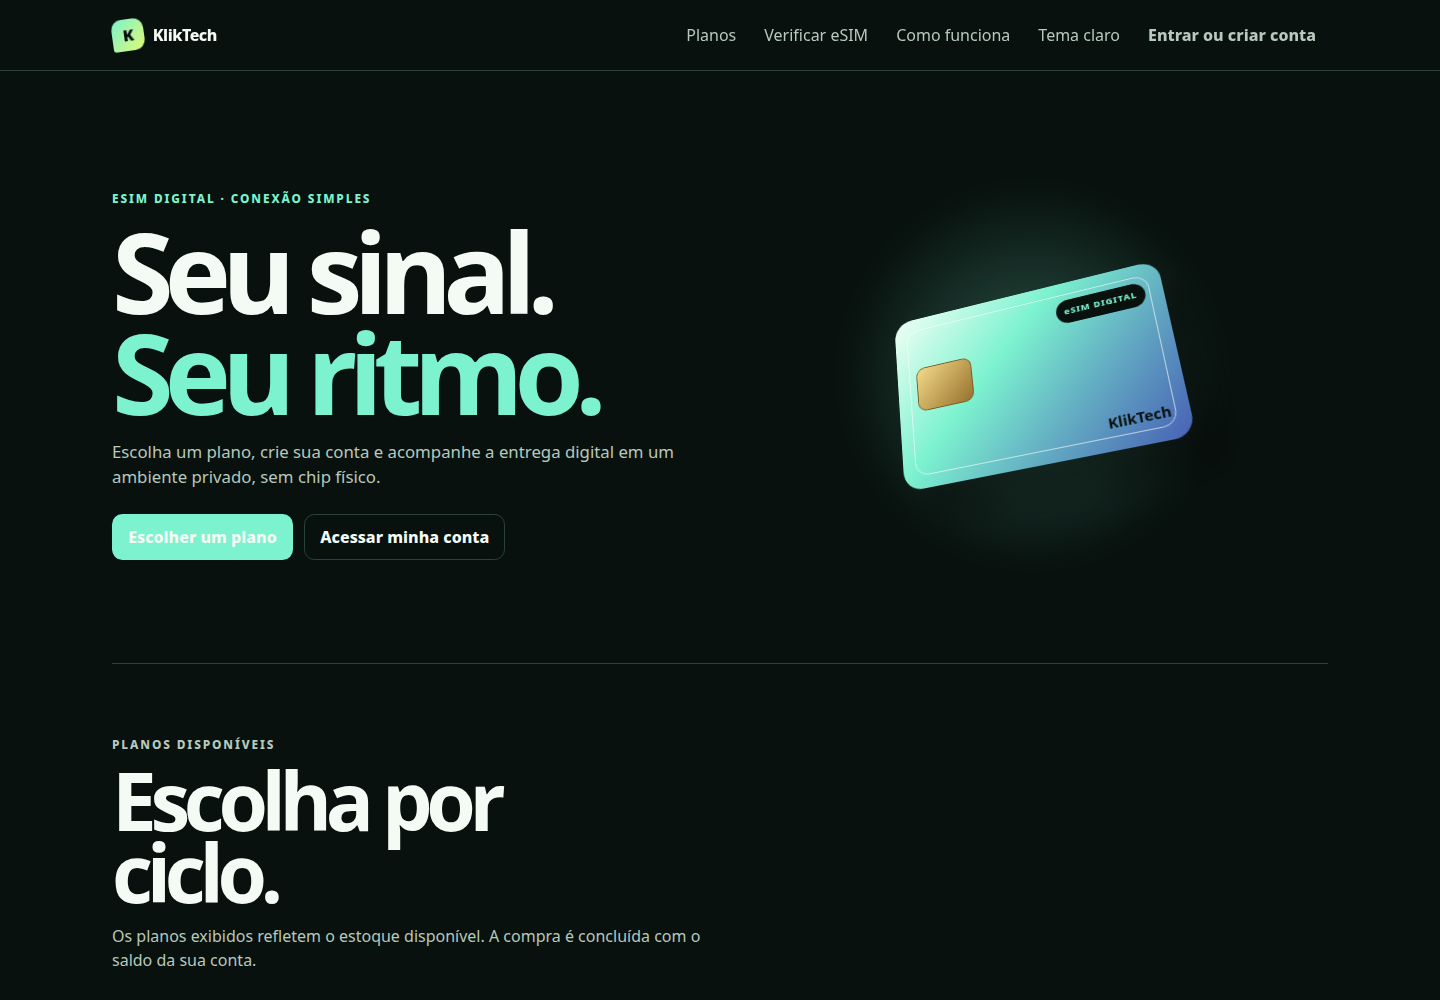
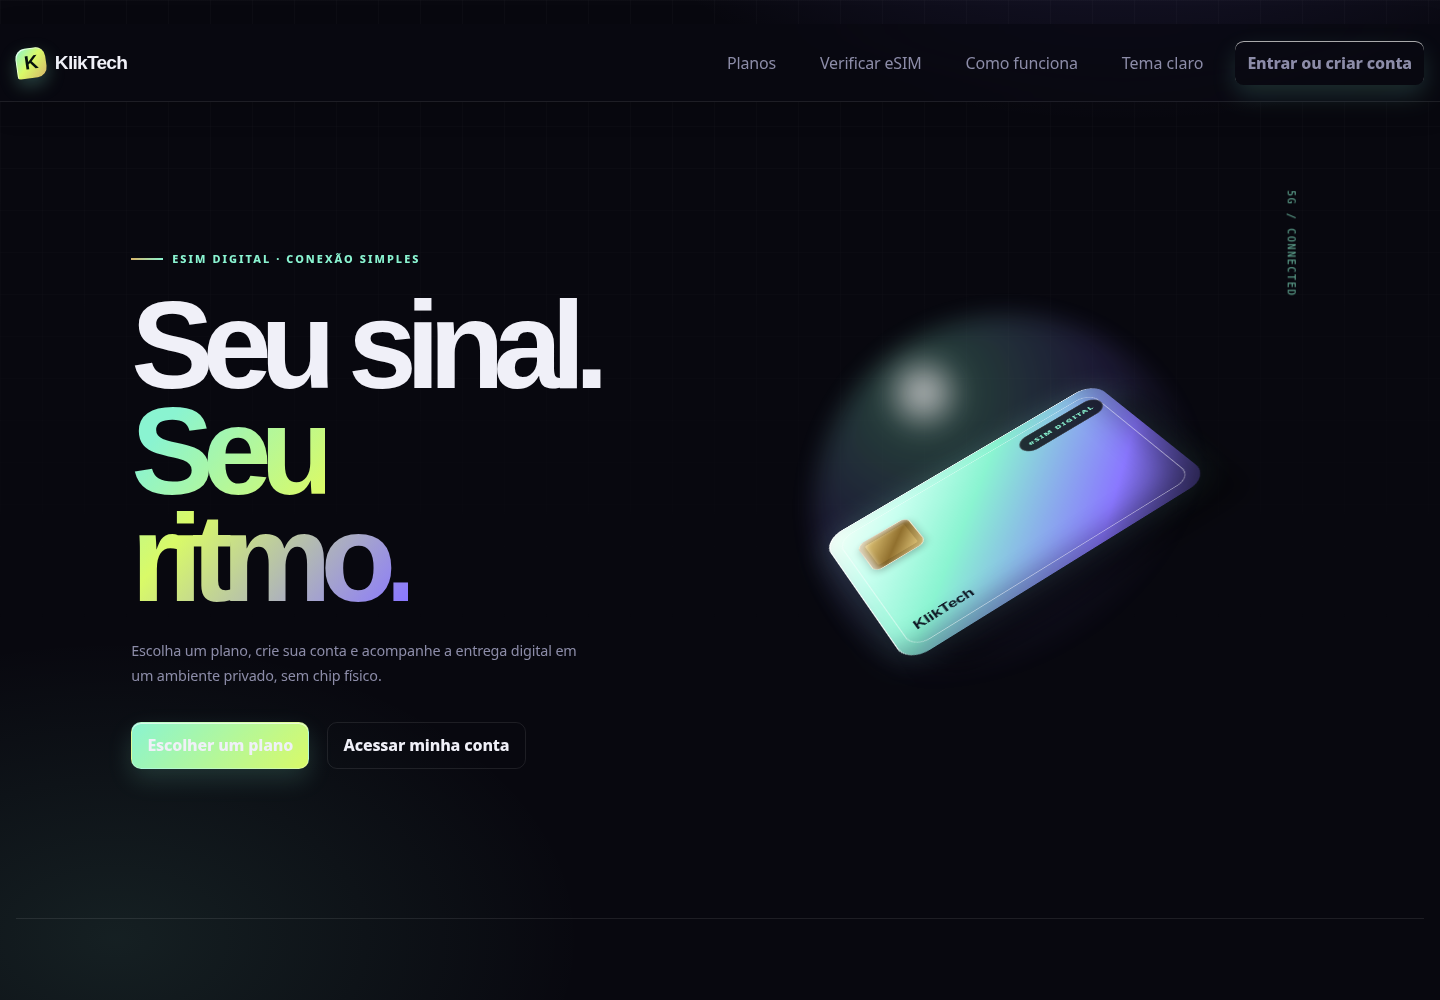
style: restaurar identidade visual neon anterior

diff --git a/static/css/public.css b/static/css/public.css
@@ -242,3 +242,134 @@
 @media (prefers-reduced-motion: reduce) {
   *, *::before, *::after { animation-duration: .01ms; animation-iteration-count: 1; scroll-behavior: auto; transition-duration: .01ms; }
 }
+
+
+/* KlikTech legacy visual layer: visual antigo, markup e fluxos atuais preservados. */
+.public-page,
+.client-page {
+  --public-bg: #08080f;
+  --public-surface: #12121f;
+  --public-surface-2: #202039;
+  --public-border: rgb(255 255 255 / .09);
+  --public-text: #f0f0f8;
+  --public-muted: #8c8ca8;
+  --public-accent: #8af4d1;
+  --public-accent-strong: #8a78ff;
+  --public-shadow: 0 24px 70px rgb(0 0 0 / .48), 0 8px 22px rgb(0 0 0 / .35);
+  --public-radius: 1.125rem;
+  background:
+    radial-gradient(900px 520px at 78% -6%, rgb(138 120 255 / .2), transparent 62%),
+    radial-gradient(720px 460px at 8% 28%, rgb(138 244 209 / .1), transparent 65%),
+    var(--public-bg);
+  color: var(--public-text);
+  font-family: "DM Sans", Inter, ui-sans-serif, system-ui, sans-serif;
+  letter-spacing: -.01em;
+}
+.public-page::before,
+.client-page::before {
+  content: "";
+  position: fixed;
+  inset: 0;
+  pointer-events: none;
+  z-index: 0;
+  opacity: .05;
+  background-image: linear-gradient(rgb(255 255 255 / .5) 1px, transparent 1px), linear-gradient(90deg, rgb(255 255 255 / .5) 1px, transparent 1px);
+  background-size: 42px 42px;
+  mask-image: linear-gradient(to bottom, black, transparent 72%);
+}
+.public-page > *,
+.client-page > * { position: relative; z-index: 1; }
+.public-header {
+  height: 78px;
+  border-bottom-color: var(--public-border);
+  background: rgb(8 8 15 / .72);
+  backdrop-filter: blur(22px) saturate(150%);
+  box-shadow: 0 8px 30px rgb(0 0 0 / .12);
+}
+.public-header-inner { width: min(100% - 2rem, 90rem); min-height: 78px; }
+.public-brand { font-family: "Space Grotesk", "DM Sans", sans-serif; font-size: 1.2rem; letter-spacing: -.04em; }
+.public-brand-mark { width: 30px; height: 30px; border-radius: 10px 10px 10px 3px; background: linear-gradient(135deg, var(--public-accent), #d9fa68 48%, #d8b56a); box-shadow: 0 7px 18px rgb(138 244 209 / .26), inset 1px 1px rgb(255 255 255 / .7); }
+.public-menu { background: rgb(18 18 31 / .97); border-color: var(--public-border); }
+.public-menu a, .public-menu button { color: var(--public-muted); }
+.public-menu a:hover, .public-menu button:hover { background: rgb(138 244 209 / .12); color: var(--public-text); }
+.public-button {
+  border: 1px solid rgb(255 255 255 / .28);
+  border-radius: 10px;
+  background: linear-gradient(135deg, var(--public-accent), #d9fa68);
+  color: #08100d;
+  box-shadow: 0 10px 24px rgb(138 244 209 / .16), inset 0 1px rgb(255 255 255 / .65);
+  transition: transform .18s cubic-bezier(.16,1,.3,1), box-shadow .18s cubic-bezier(.16,1,.3,1), filter .18s ease;
+}
+.public-button:hover { transform: translateY(-3px); box-shadow: 0 16px 32px rgb(138 244 209 / .26), 0 0 24px rgb(138 244 209 / .25); filter: saturate(1.08); }
+.public-button--ghost { border-color: var(--public-border); background: transparent; color: var(--public-text); box-shadow: none; }
+.public-hero {
+  width: min(100% - 2rem, 90rem);
+  min-height: min(760px, calc(100vh - 78px));
+  grid-template-columns: .9fr 1.1fr;
+  align-items: center;
+  gap: clamp(30px, 6vw, 90px);
+  padding: clamp(60px, 9vw, 128px) clamp(24px, 8vw, 120px);
+}
+.public-eyebrow { color: var(--public-accent); font-size: .68rem; letter-spacing: .19em; }
+.public-eyebrow::before { content: ""; display: inline-block; width: 32px; height: 2px; margin: 0 9px 3px 0; background: linear-gradient(90deg, #d8b56a, var(--public-accent)); }
+.public-hero h1, .public-section-heading h2, .client-main h1 { font-family: "Space Grotesk", "DM Sans", sans-serif; letter-spacing: -.09em; }
+.public-hero h1 { max-width: 12ch; margin: 24px 0 28px; font-size: clamp(58px, 8.6vw, 128px); line-height: .86; }
+.public-hero h1 span { background: linear-gradient(130deg, var(--public-accent) 12%, #d9fa68 48%, #8a78ff 96%); background-clip: text; color: transparent; }
+.public-lede { max-width: 29rem; color: var(--public-muted); font-size: .9rem; line-height: 1.7; }
+.public-actions { gap: 18px; margin-top: 34px; }
+.public-visual { min-height: 500px; height: min(560px, 48vw); perspective: 1200px; }
+.public-visual::before { width: min(390px, 66vw); height: min(390px, 66vw); background: radial-gradient(circle at 28% 20%, #fff, rgb(138 244 209 / .28) 10%, rgb(138 120 255 / .2) 42%, transparent 70%); filter: blur(12px); opacity: .8; }
+.public-visual::after { content: "5G / CONNECTED"; position: absolute; top: 12%; right: 2%; color: var(--public-accent); opacity: .7; font: 10px ui-monospace, monospace; letter-spacing: .16em; transform: rotate(90deg); transform-origin: right top; }
+.public-esim-card { width: min(340px, 72vw); height: 216px; aspect-ratio: auto; border-radius: 24px; background: linear-gradient(135deg, #f9fff9 0%, #c9fff0 18%, #8af4d1 39%, #8a78ff 77%, #252143 100%); box-shadow: 24px 46px 28px rgb(0 0 0 / .32), inset 1px 1px rgb(255 255 255 / .9), inset -18px -20px 30px rgb(34 28 74 / .34), 0 0 38px rgb(138 244 209 / .18); transform: rotateX(56deg) rotateZ(-28deg) rotateY(-18deg); animation: legacy-float 5.4s ease-in-out infinite; overflow: hidden; }
+.public-esim-card::before { inset: 12px; border: 1px solid rgb(255 255 255 / .48); border-radius: 18px; }
+.public-esim-card strong { left: 25px; right: auto; bottom: 24px; z-index: 2; color: #0c1320; font-family: "Space Grotesk", sans-serif; font-size: 1rem; }
+.public-chip { top: 35px; left: 25px; width: 60px; height: 50px; border-color: rgb(255 255 255 / .68); border-radius: 9px; background: linear-gradient(135deg, #f3da8a, #91702e 56%, #f0d88b); box-shadow: inset 0 0 0 6px rgb(56 39 9 / .16), inset 4px 3px 7px rgb(255 255 255 / .8), 0 4px 10px rgb(0 0 0 / .22); }
+.public-badge { top: 21px; right: 12px; border: 1px solid rgb(255 255 255 / .16); background: rgb(8 8 15 / .82); color: var(--public-accent); letter-spacing: .14em; }
+@keyframes legacy-float { 0%, 100% { transform: rotateX(56deg) rotateZ(-28deg) rotateY(-18deg); } 50% { transform: translate3d(0,-16px,0) rotateX(56deg) rotateZ(-28deg) rotateY(-18deg); } }
+.public-section { width: min(100% - 2rem, 90rem); padding: 110px clamp(24px, 8vw, 120px) 112px; border-top-color: var(--public-border); }
+.public-section-heading h2 { max-width: 12ch; font-size: clamp(44px, 6vw, 82px); line-height: .92; }
+.public-section-heading p { color: var(--public-muted); }
+.public-plan-grid { grid-template-columns: repeat(4, minmax(0, 1fr)); gap: 16px; }
+.public-plan, .public-info-card, .public-faq, .public-form-card {
+  position: relative;
+  overflow: hidden;
+  border-color: var(--public-border);
+  border-radius: 18px;
+  background: linear-gradient(145deg, rgb(24 24 42 / .9), rgb(16 16 29 / .94));
+  box-shadow: var(--public-shadow);
+  transition: transform .35s cubic-bezier(.16,1,.3,1), border-color .35s ease, box-shadow .35s ease;
+}
+.public-plan { min-height: 330px; padding: 26px; }
+.public-plan:hover, .public-info-card:hover, .public-faq:hover { transform: translateY(-7px); border-color: rgb(138 244 209 / .36); box-shadow: var(--public-shadow), 0 0 24px rgb(138 244 209 / .2); }
+.public-plan--featured { transform: translateY(-16px); border-color: rgb(255 255 255 / .5); background: linear-gradient(145deg, #bfffe6, #8af4d1 38%, #d9fa68); color: #08100d; }
+.public-plan--featured:hover { transform: translateY(-23px); }
+.public-plan h3 { font-family: "Space Grotesk", sans-serif; font-size: 3rem; }
+.public-plan p { color: var(--public-muted); }
+.public-plan--featured p, .public-plan--featured small { color: #35513e; }
+.public-plan .public-button { border-color: currentColor; background: transparent; color: inherit; box-shadow: none; }
+.public-compatibility { grid-template-columns: .85fr 1.15fr; align-items: center; gap: 42px; background: linear-gradient(135deg, rgb(116 247 208 / .055), rgb(138 120 255 / .08)); }
+.public-form-card { padding: 24px; background: rgb(24 24 42 / .82); }
+.public-input, .client-input, .client-form select { background: rgb(6 7 14 / .72); border-color: var(--public-border); border-radius: 10px; }
+.public-info-grid { grid-template-columns: repeat(4, minmax(0, 1fr)); gap: 16px; }
+.public-info-card { min-height: 210px; padding: 25px; }
+.public-info-card h3, .public-faq summary { font-family: "Space Grotesk", sans-serif; }
+.public-faq-grid { grid-template-columns: 1fr 1fr; gap: 10px; }
+.public-faq { padding: 20px; }
+.public-footer { grid-template-columns: 1fr auto; padding: 27px clamp(24px, 8vw, 120px); background: rgb(8 8 15 / .65); border-top-color: var(--public-border); }
+.public-footer-links { justify-content: flex-end; }
+.public-dialog-backdrop { background: rgb(3 4 9 / .78); backdrop-filter: blur(18px) saturate(120%); }
+.public-dialog { border-color: rgb(138 244 209 / .28); border-radius: 24px; background: linear-gradient(145deg, rgb(24 24 42 / .97), rgb(11 11 21 / .98)); box-shadow: 0 30px 100px rgb(0 0 0 / .68), 0 0 24px rgb(138 244 209 / .25); }
+.public-tab.is-active { border-bottom-color: var(--public-accent); color: var(--public-accent); }
+.client-page { background: radial-gradient(900px 600px at 80% 0, rgb(138 120 255 / .14), transparent 60%), var(--public-bg); }
+.client-sidebar { width: 246px; background: rgb(13 13 26 / .83); border-right-color: var(--public-border); backdrop-filter: blur(18px); }
+.client-nav-button:hover, .client-nav-button.is-active { background: linear-gradient(90deg, rgb(138 244 209 / .12), rgb(138 120 255 / .08)); border-color: rgb(138 244 209 / .18); color: var(--public-accent); transform: translateX(3px); }
+.client-topbar { background: rgb(8 8 15 / .75); border-bottom-color: var(--public-border); backdrop-filter: blur(20px) saturate(150%); }
+.client-balance, .client-stat, .client-order, .client-buy-card { background: linear-gradient(145deg, rgb(24 24 42 / .93), rgb(14 14 27 / .93)); border-color: var(--public-border); border-radius: 16px; box-shadow: var(--public-shadow); }
+.client-balance, .client-stat strong.accent, .client-order-status, .client-order summary { color: var(--public-accent); }
+.client-stat { padding: 24px; }
+.client-buy-grid { grid-template-columns: repeat(2, minmax(0, 1fr)); gap: 16px; }
+.client-buy-card { padding: 23px; }
+@media (min-width: 901px) { .public-menu { position: static; display: flex; gap: 1.25rem; padding: 0; border: 0; background: transparent; box-shadow: none; } .public-menu-toggle { display: none; } }
+@media (max-width: 900px) { .public-hero { grid-template-columns: 1fr; } .public-visual { order: -1; height: 370px; min-height: 370px; transform: scale(.9); margin: -30px 0 -10px; } .public-plan-grid, .public-info-grid { grid-template-columns: repeat(2, minmax(0, 1fr)); } .public-plan--featured { transform: none; } .client-sidebar { width: min(84vw, 18rem); } }
+@media (max-width: 600px) { .public-header, .public-header-inner { height: 68px; min-height: 68px; } .public-hero { padding-top: 34px; padding-bottom: 64px; } .public-hero h1 { font-size: clamp(52px, 16vw, 76px); } .public-visual { height: 290px; min-height: 290px; transform: scale(.76); margin: -40px 0 -60px; } .public-plan-grid, .public-info-grid, .public-faq-grid, .public-compatibility { grid-template-columns: 1fr; } .public-plan { min-height: 238px; } .public-plan--featured:hover { transform: translateY(-7px); } .public-section { padding-top: 74px; padding-bottom: 84px; } .public-footer { grid-template-columns: 1fr; gap: 8px; } .public-footer-links { justify-content: flex-start; } .client-buy-grid { grid-template-columns: 1fr; } .client-sidebar { transform: translateX(-105%); } }
+@media (prefers-reduced-motion: reduce) { *, *::before, *::after { animation-duration: .001ms; animation-iteration-count: 1; transition-duration: .001ms; } }

diff --git a/qa/visual-check.md b/qa/visual-check.md
@@ -1,9 +1,9 @@
 # Verificação visual
 
-As capturas finais foram geradas em Chromium headless contra a origem HTTPS pública temporária do sandbox.
+As capturas finais foram geradas em Chromium headless contra a origem HTTPS pública temporária do sandbox após a restauração da camada visual antiga.
 
-A captura mobile em 390×844 px mostra a marca KlikTech, menu hambúrguer, título, ações primárias e cartão eSIM sem overflow horizontal aparente. O conteúdo mantém contraste forte e os controles permanecem acessíveis à largura de toque.
+A captura mobile em 390×844 px mostra o cabeçalho escuro com marca KlikTech, menu compacto, cartão eSIM orbital em gradiente ciano/violeta, tipografia grande, botões neon e ausência de overflow horizontal aparente.
 
-A captura desktop em 1440×1000 px mostra navegação horizontal, composição de duas colunas no hero, cartão eSIM alinhado à direita e início da seção de planos com espaçamento consistente. A página não carrega o shell administrativo nem o CSS 3D legado.
+A captura desktop em 1440×1000 px mostra a navegação horizontal, hero em duas colunas, cartão eSIM 3D inclinado com brilho, paleta escura neon, CTA gradiente e hierarquia tipográfica correspondente ao design anterior. O markup continua sem CSS/JS inline e a navegação continua usando os handlers seguros do JavaScript atual.
 
 Arquivos: `qa/home-mobile.png` e `qa/home-desktop.png`.
